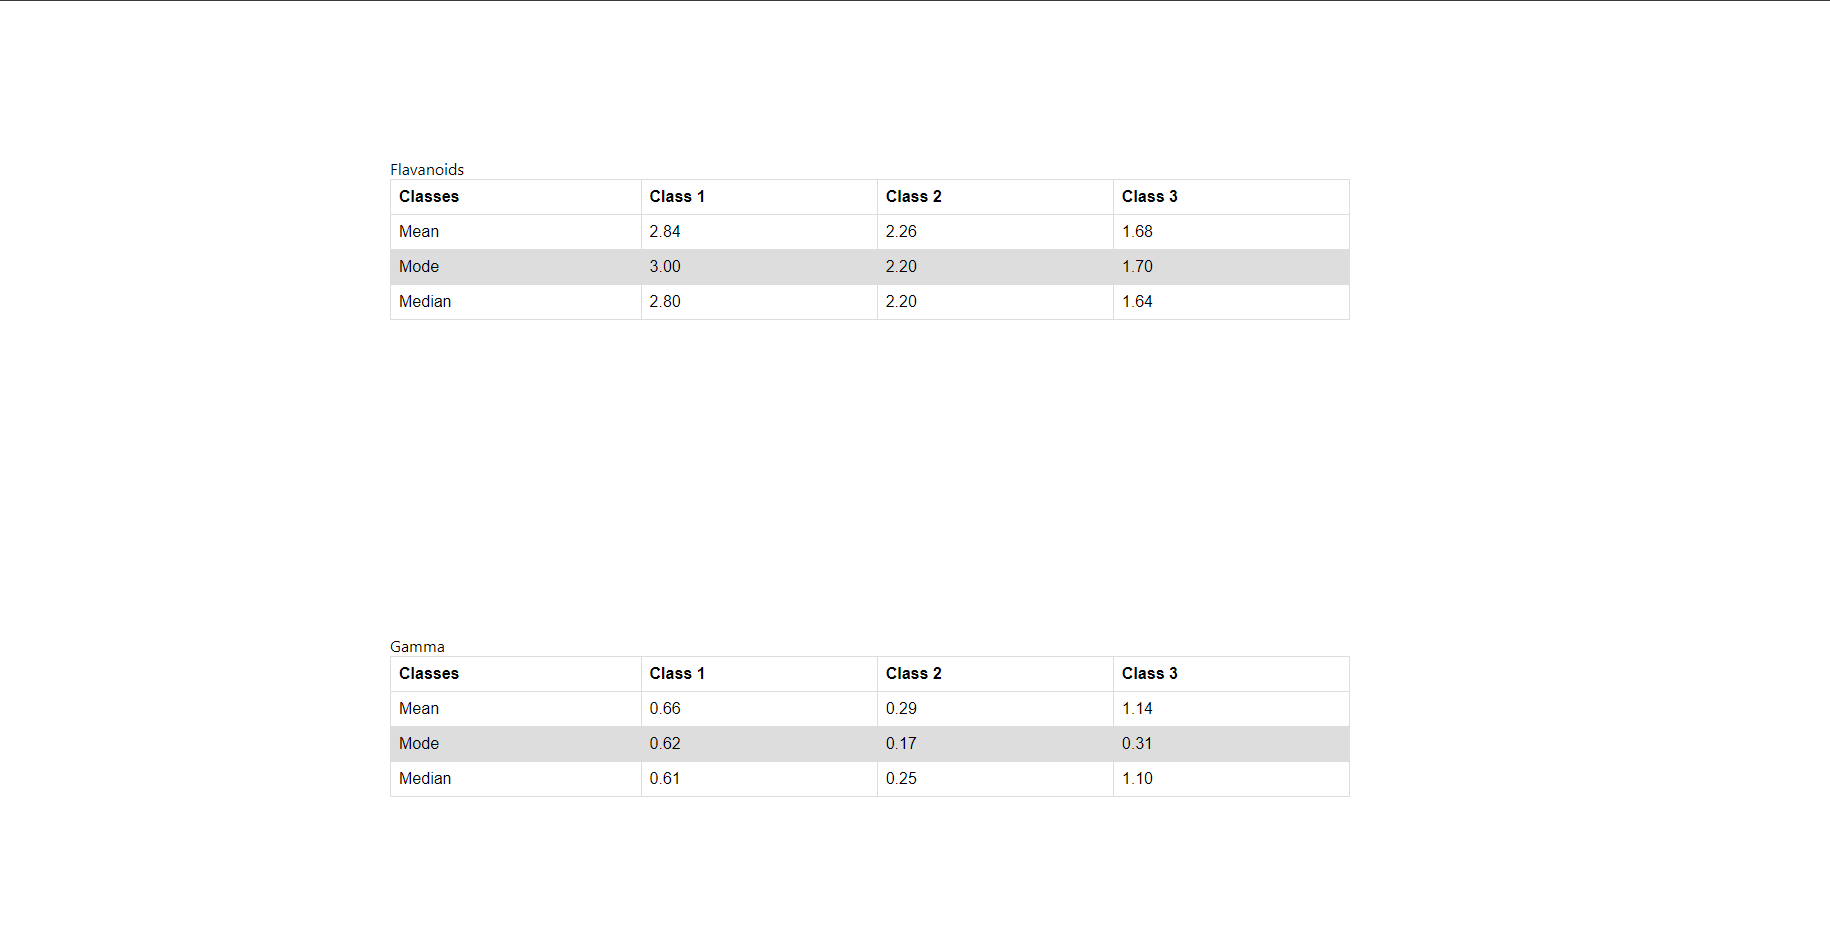
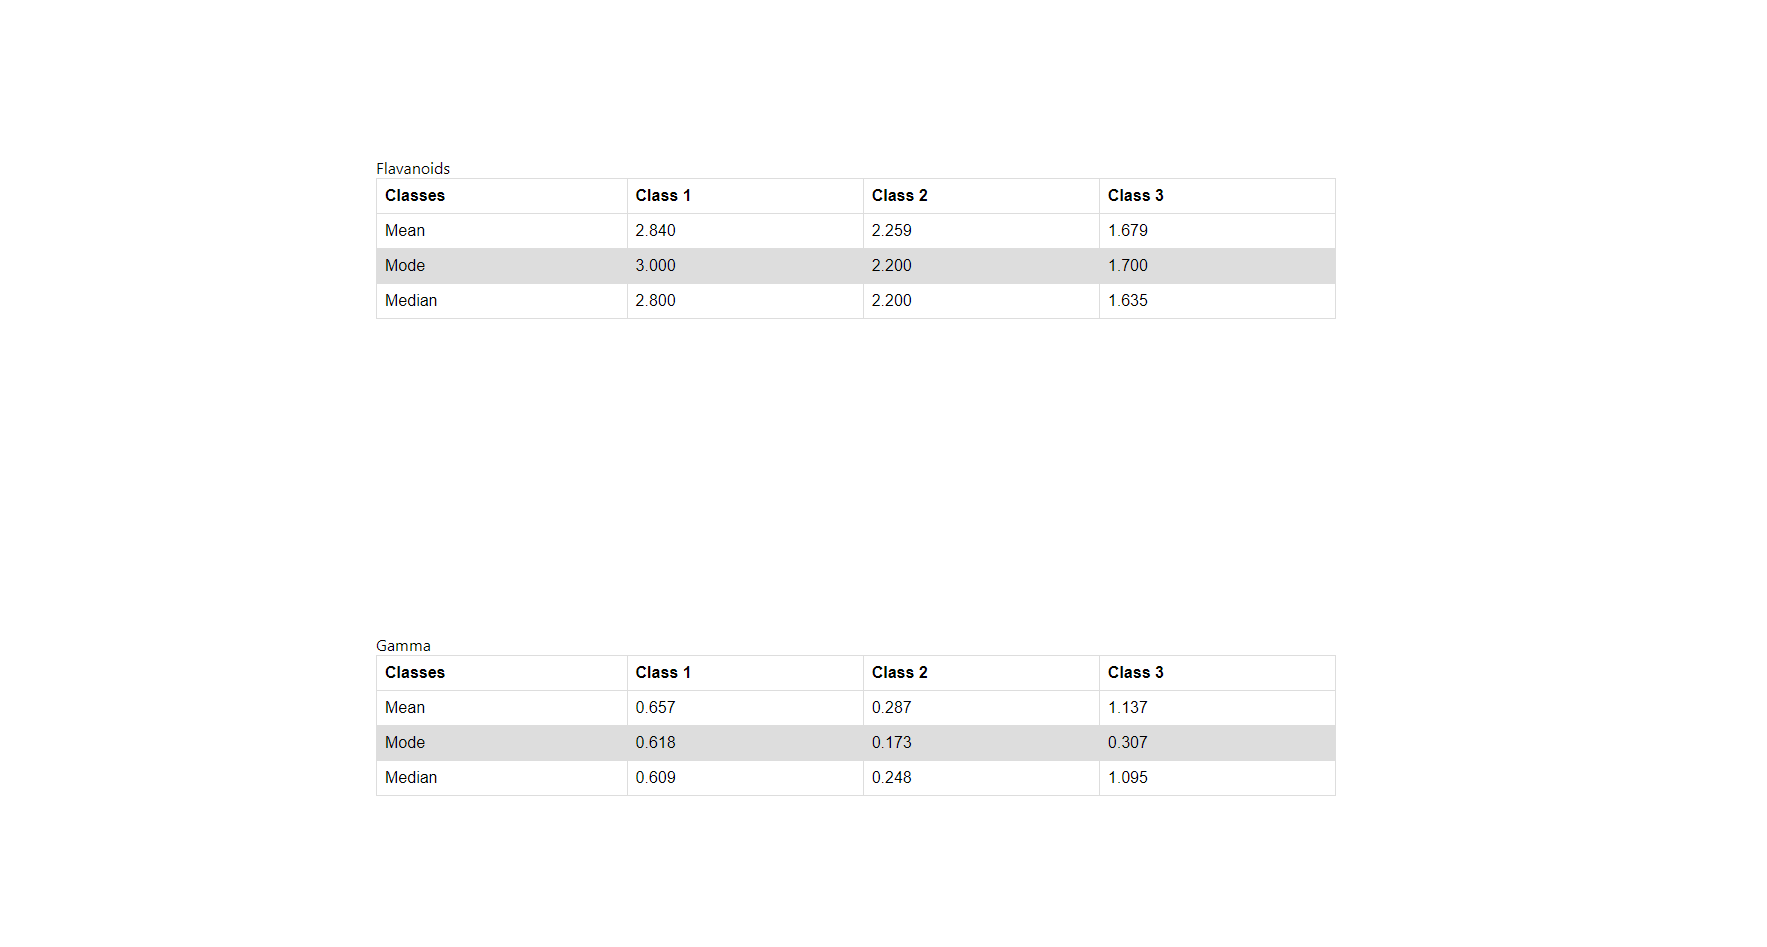
decimal places and function fix

Changed region(s): [[0.2179, 0.678, 0.7782, 0.8321], [0.2179, 0.1541, 0.7782, 0.339]]

diff --git a/src/helper/calculate.js b/src/helper/calculate.js
@@ -1,6 +1,6 @@
 export function calculateStats(data, type) {
   // Create an object to store types values for each alcohol class
-  const alcoholClassFlavanoids = {};
+  const alcoholClassTypes = {};
 
   // Iterate through the data array
   data.forEach((entry) => {
@@ -8,44 +8,43 @@ export function calculateStats(data, type) {
     const types = parseFloat(entry[type]);
 
     // If the alcohol class is not already in the object, initialize it
-    if (!alcoholClassFlavanoids[alcoholClass]) {
-      alcoholClassFlavanoids[alcoholClass] = [];
+    if (!alcoholClassTypes[alcoholClass]) {
+      alcoholClassTypes[alcoholClass] = [];
     }
 
     // Add types value to the array for this alcohol class
-    alcoholClassFlavanoids[alcoholClass].push(types);
+    alcoholClassTypes[alcoholClass].push(types);
   });
 
   // Calculate mean, median, and mode for types for each alcohol class
   const statsByAlcoholClass = {};
-  Object.keys(alcoholClassFlavanoids).forEach((alcoholClass) => {
-    const flavanoidsArray = alcoholClassFlavanoids[alcoholClass];
+  Object.keys(alcoholClassTypes).forEach((alcoholClass) => {
+    const typesArray = alcoholClassTypes[alcoholClass];
 
     // Mean calculation
     const mean =
-      flavanoidsArray.reduce((sum, val) => sum + val, 0) /
-      flavanoidsArray.length;
+      typesArray.reduce((sum, val) => sum + val, 0) / typesArray.length;
 
     // Median calculation
-    const sortedFlavanoids = flavanoidsArray.slice().sort((a, b) => a - b);
+    const sortedTypes = typesArray.slice().sort((a, b) => a - b);
     const median =
-      sortedFlavanoids.length % 2 === 0
-        ? (sortedFlavanoids[sortedFlavanoids.length / 2 - 1] +
-            sortedFlavanoids[sortedFlavanoids.length / 2]) /
+      sortedTypes.length % 2 === 0
+        ? (sortedTypes[sortedTypes.length / 2 - 1] +
+            sortedTypes[sortedTypes.length / 2]) /
           2
-        : sortedFlavanoids[Math.floor(sortedFlavanoids.length / 2)];
+        : sortedTypes[Math.floor(sortedTypes.length / 2)];
 
     // Mode calculation
-    const flavanoidsCount = {};
-    flavanoidsArray.forEach((val) => {
-      flavanoidsCount[val] = (flavanoidsCount[val] || 0) + 1;
+    const typesCount = {};
+    typesArray.forEach((val) => {
+      typesCount[val] = (typesCount[val] || 0) + 1;
     });
     let mode = null;
     let maxCount = 0;
-    Object.keys(flavanoidsCount).forEach((key) => {
-      if (flavanoidsCount[key] > maxCount) {
+    Object.keys(typesCount).forEach((key) => {
+      if (typesCount[key] > maxCount) {
         mode = parseFloat(key);
-        maxCount = flavanoidsCount[key];
+        maxCount = typesCount[key];
       }
     });
 

diff --git a/src/component/Table.js b/src/component/Table.js
@@ -3,9 +3,9 @@ import React from "react";
 const Table = ({ data }) => {
   const classes = Object.keys(data);
 
-  const meanValues = classes.map((cls) => data[cls].mean.toFixed(2));
-  const medianValues = classes.map((cls) => data[cls].median.toFixed(2));
-  const modeValues = classes.map((cls) => data[cls].mode.toFixed(2));
+  const meanValues = classes.map((cls) => data[cls].mean.toFixed(3));
+  const medianValues = classes.map((cls) => data[cls].median.toFixed(3));
+  const modeValues = classes.map((cls) => data[cls].mode.toFixed(3));
 
   return (
     <table>
